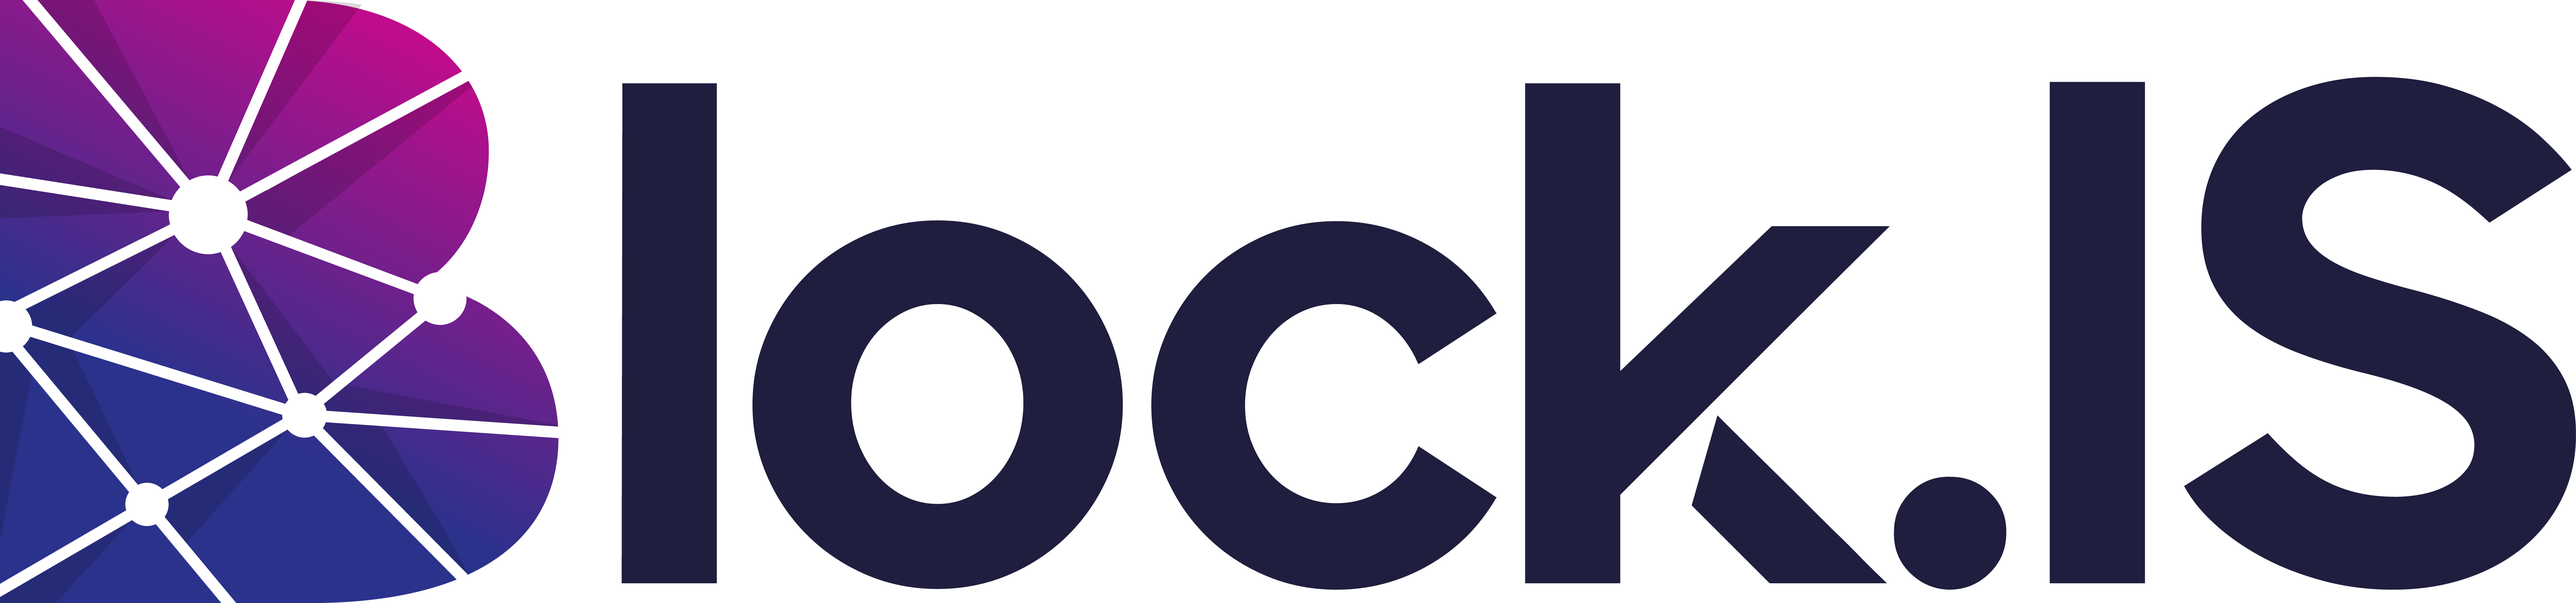
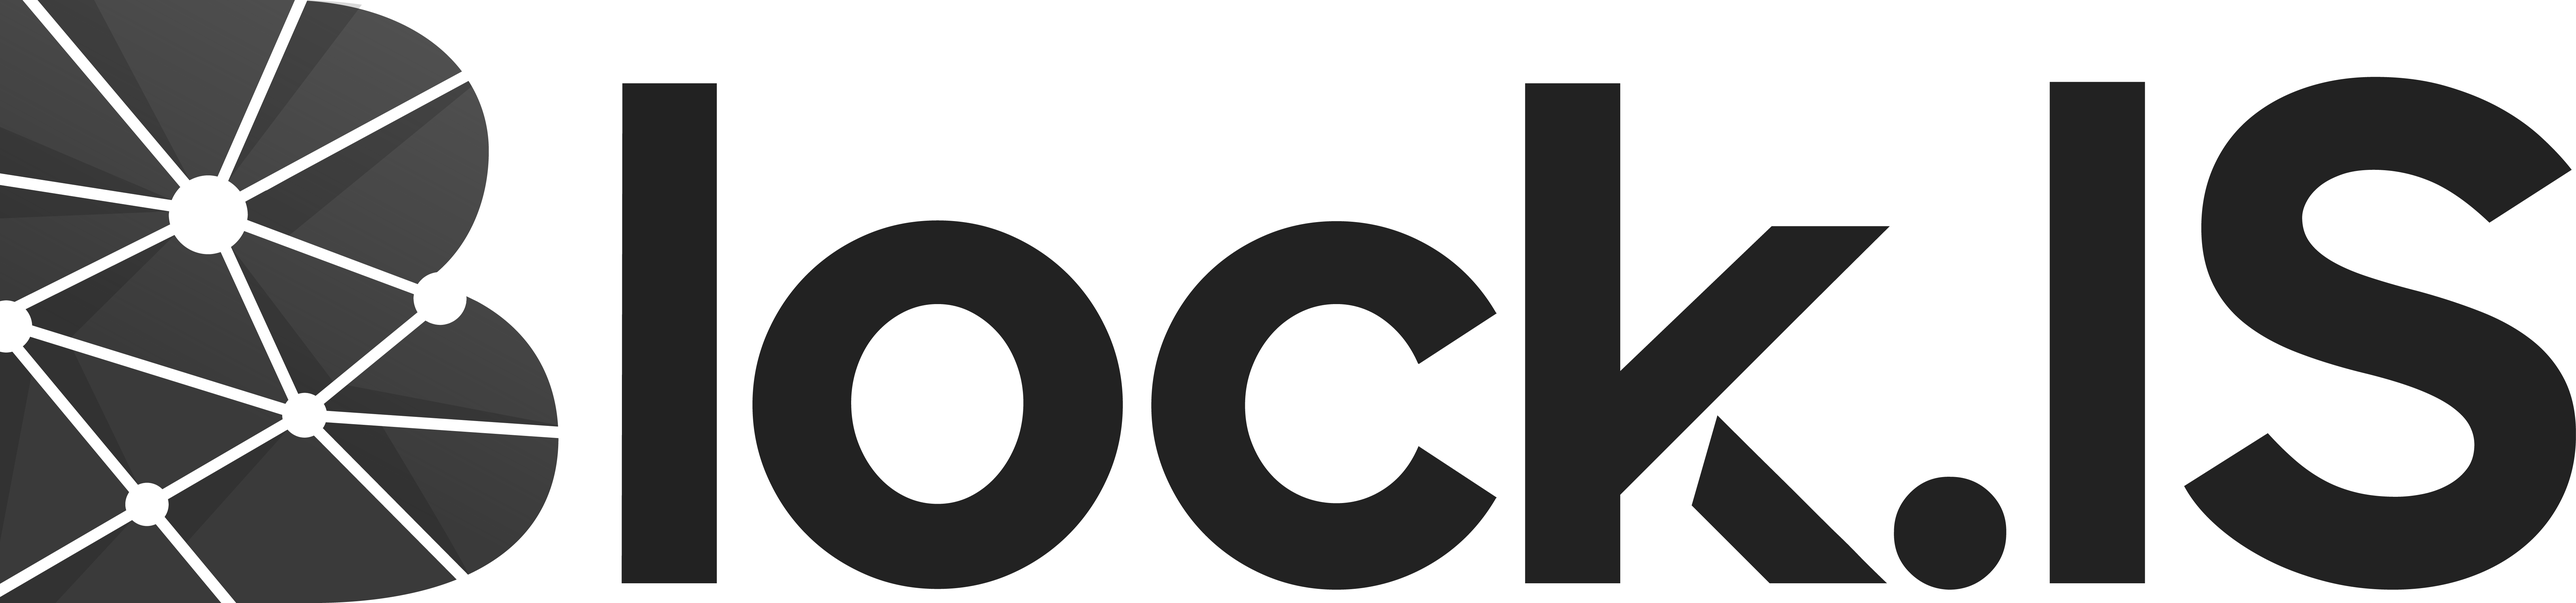
Images to grey scale. Added hyperlinks. Adjusted margins and paddings

diff --git a/src/components/supports/supports.js b/src/components/supports/supports.js
@@ -4,8 +4,8 @@ import './main.css'
 
 // Import png's
 import euro from '../../images/eu.png'
-import ngiTrust from '../../images/ngiTrust.jpeg'
 import blockis from '../../images/blockis.png'
+import ngiTrust from '../../images/ngiTrust.png'
 
 // Import package to handle image hover-over color change.
 import HoverImage from 'react-hover-image'
@@ -53,9 +53,20 @@ const Supports = () => (
     </a>
 
     <br />
-    <img src={euro} />
-    <img src={blockis} />
-    <img src={ngiTrust} />
+    <a href="https://europa.eu/" target="_blank" rel="noopener noreferrer">
+      <HoverImage src={euro} hoverSrc={euro} alt="Europe" />
+    </a>
+    <a href="https://blockis.eu/" target="_blank" rel="noopener noreferrer">
+      <HoverImage src={blockis} hoverSrc={blockis} alt="Block IS" />
+    </a>
+    <a
+      href="https://www.ngi.eu/ngi-projects/ngi-trust/"
+      target="_blank"
+      rel="noopener noreferrer"
+    >
+      <HoverImage src={ngiTrust} hoverSrc={ngiTrust} alt="NGI trust" />
+    </a>
+
     <a>
       <p>
         This project has received funding from the European Union’s Horizon 2020

diff --git a/src/components/supports/main.css b/src/components/supports/main.css
@@ -16,22 +16,14 @@
 
 .supports > a > img {
   /* Fixed height for images, using fixed width throws off EF + ECF logos. */
-  height: 110px;
-  width: 80px;
-  fill: #fff;
-  margin-top: 5px;
-  margin-left: 10px;
-  margin-right: 5px;
-  opacity: 0.3;
-}
-
-.supports > img {
-  height: 70px;
+  height: 90px;
   width: 90px;
   fill: #fff;
-  margin-top: 5px;
-  margin-left: 20px;
-  margin-right: 20px;
+  padding-left: 15px;
+  padding-right: 15px;
+  margin-top: 10px;
+  margin-left: 15px;
+  margin-right: 15px;
   opacity: 0.3;
 }
 
